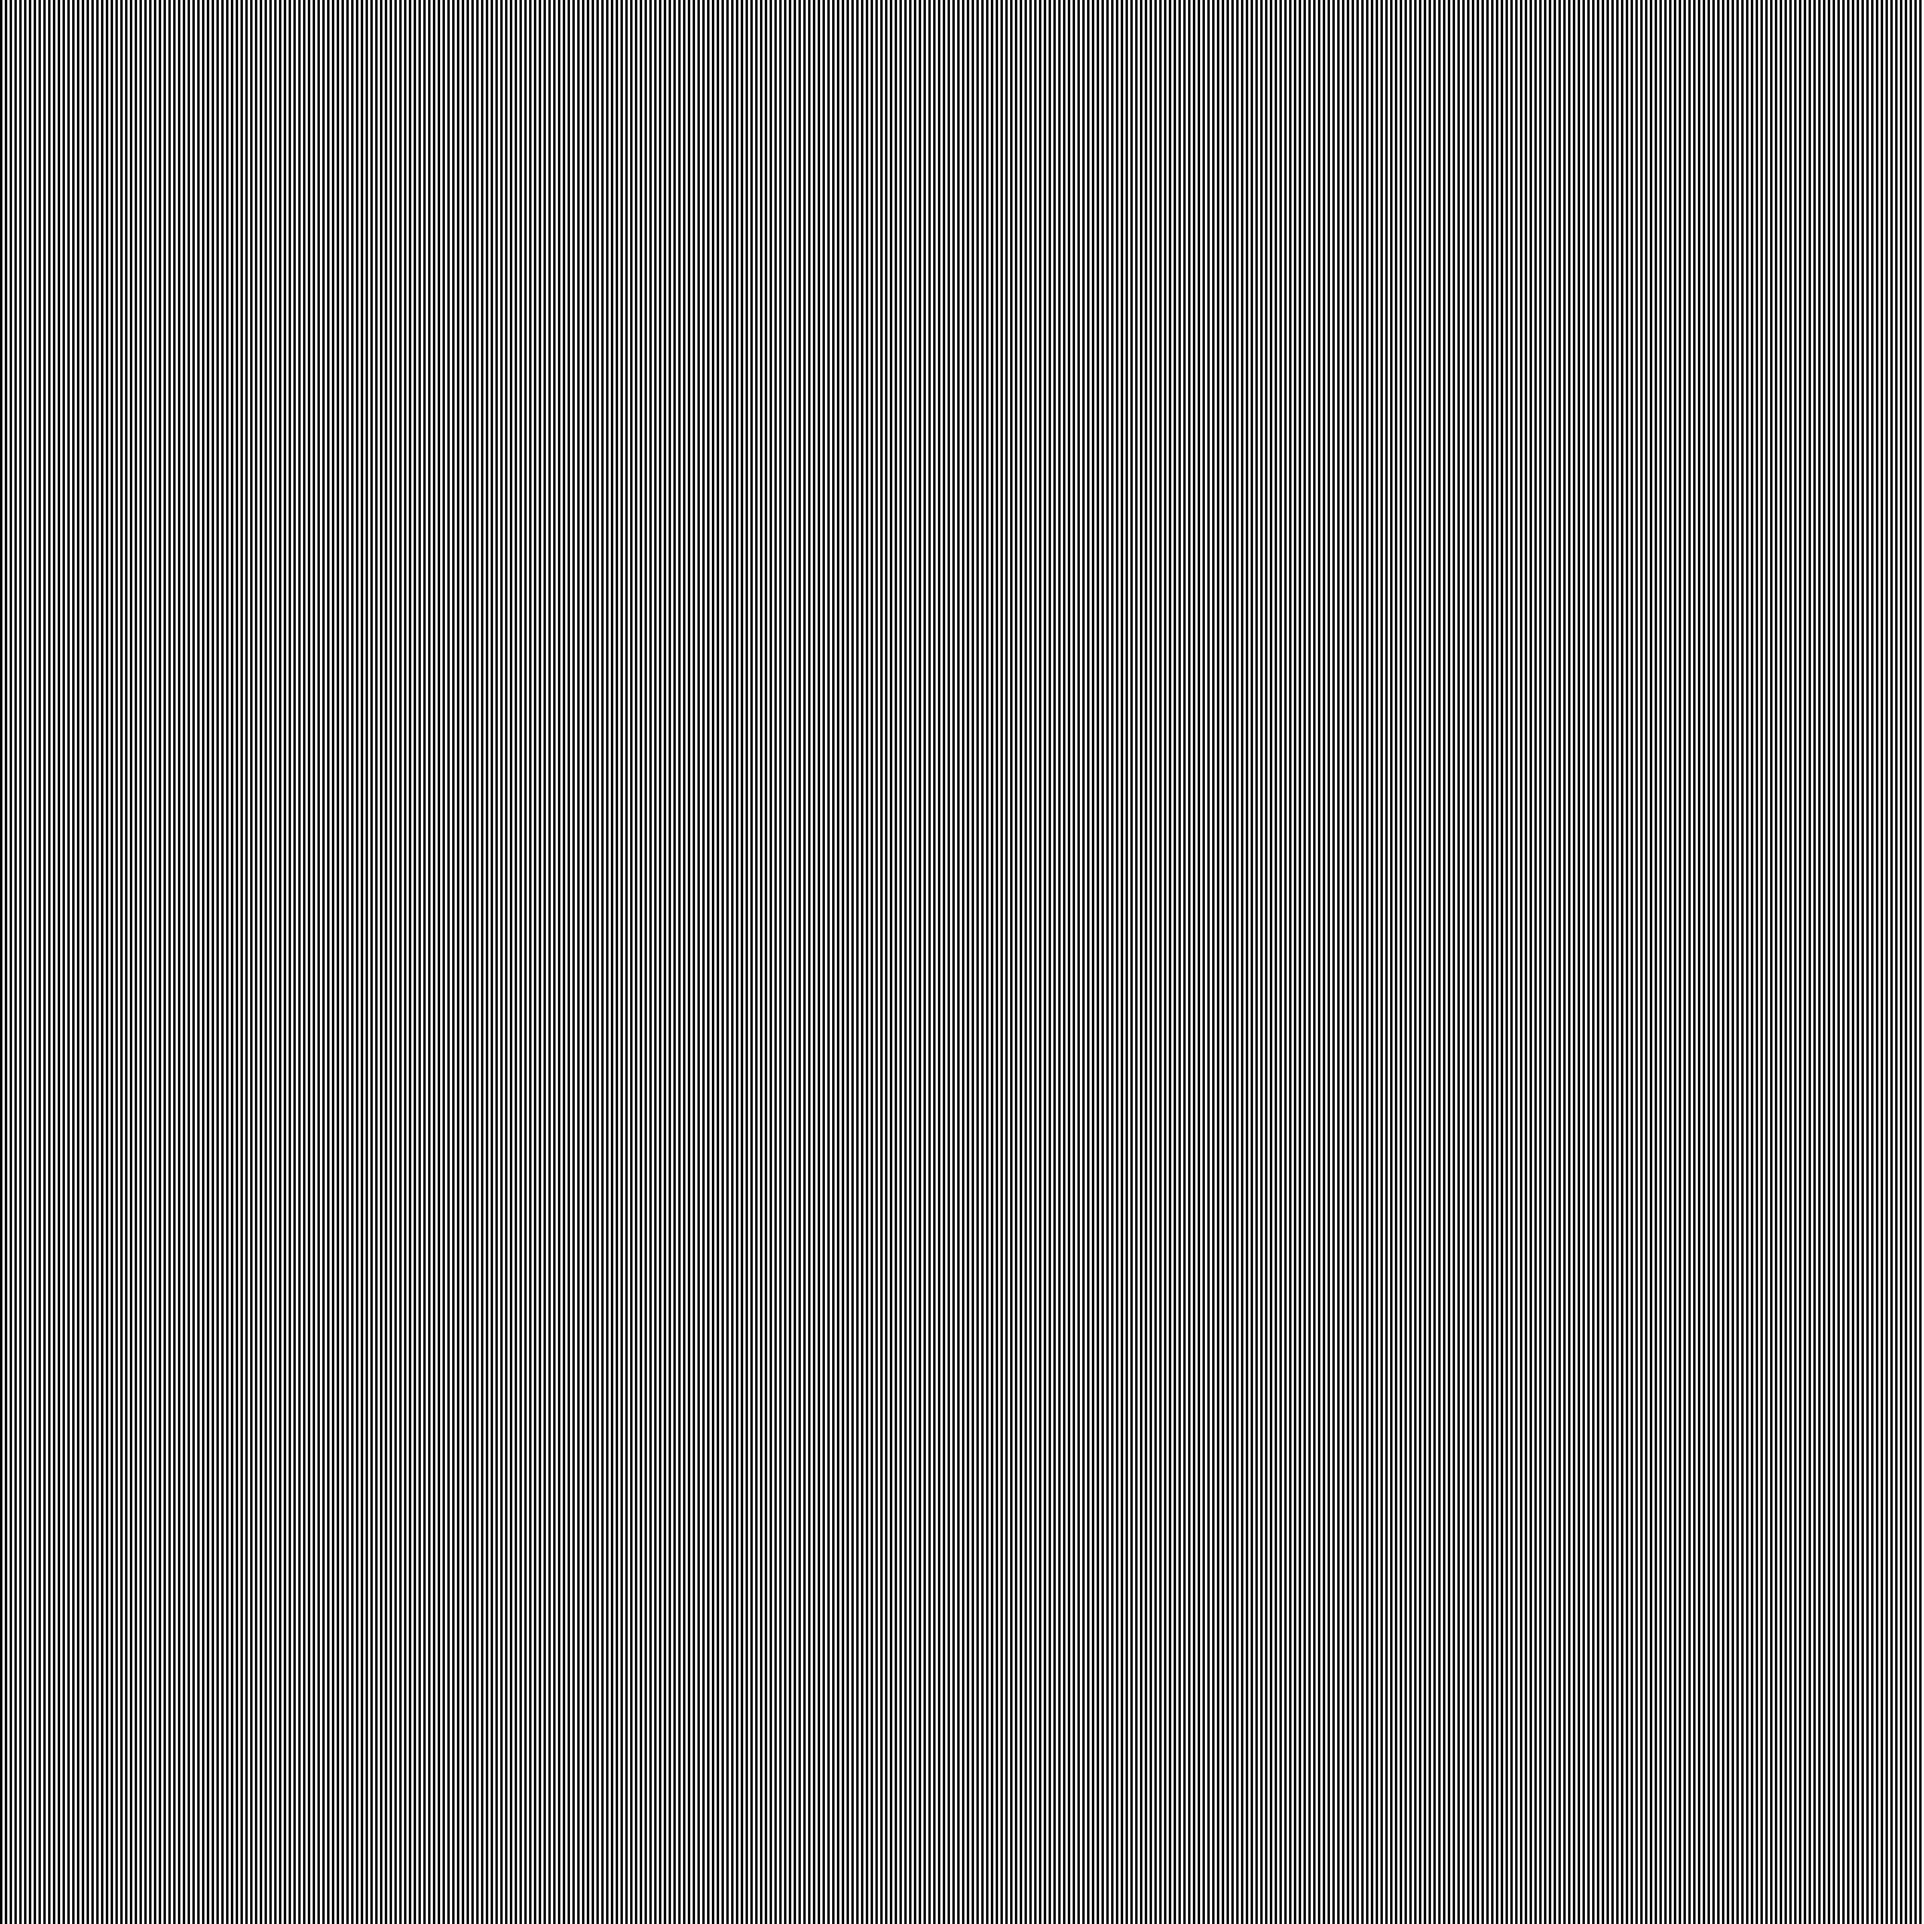
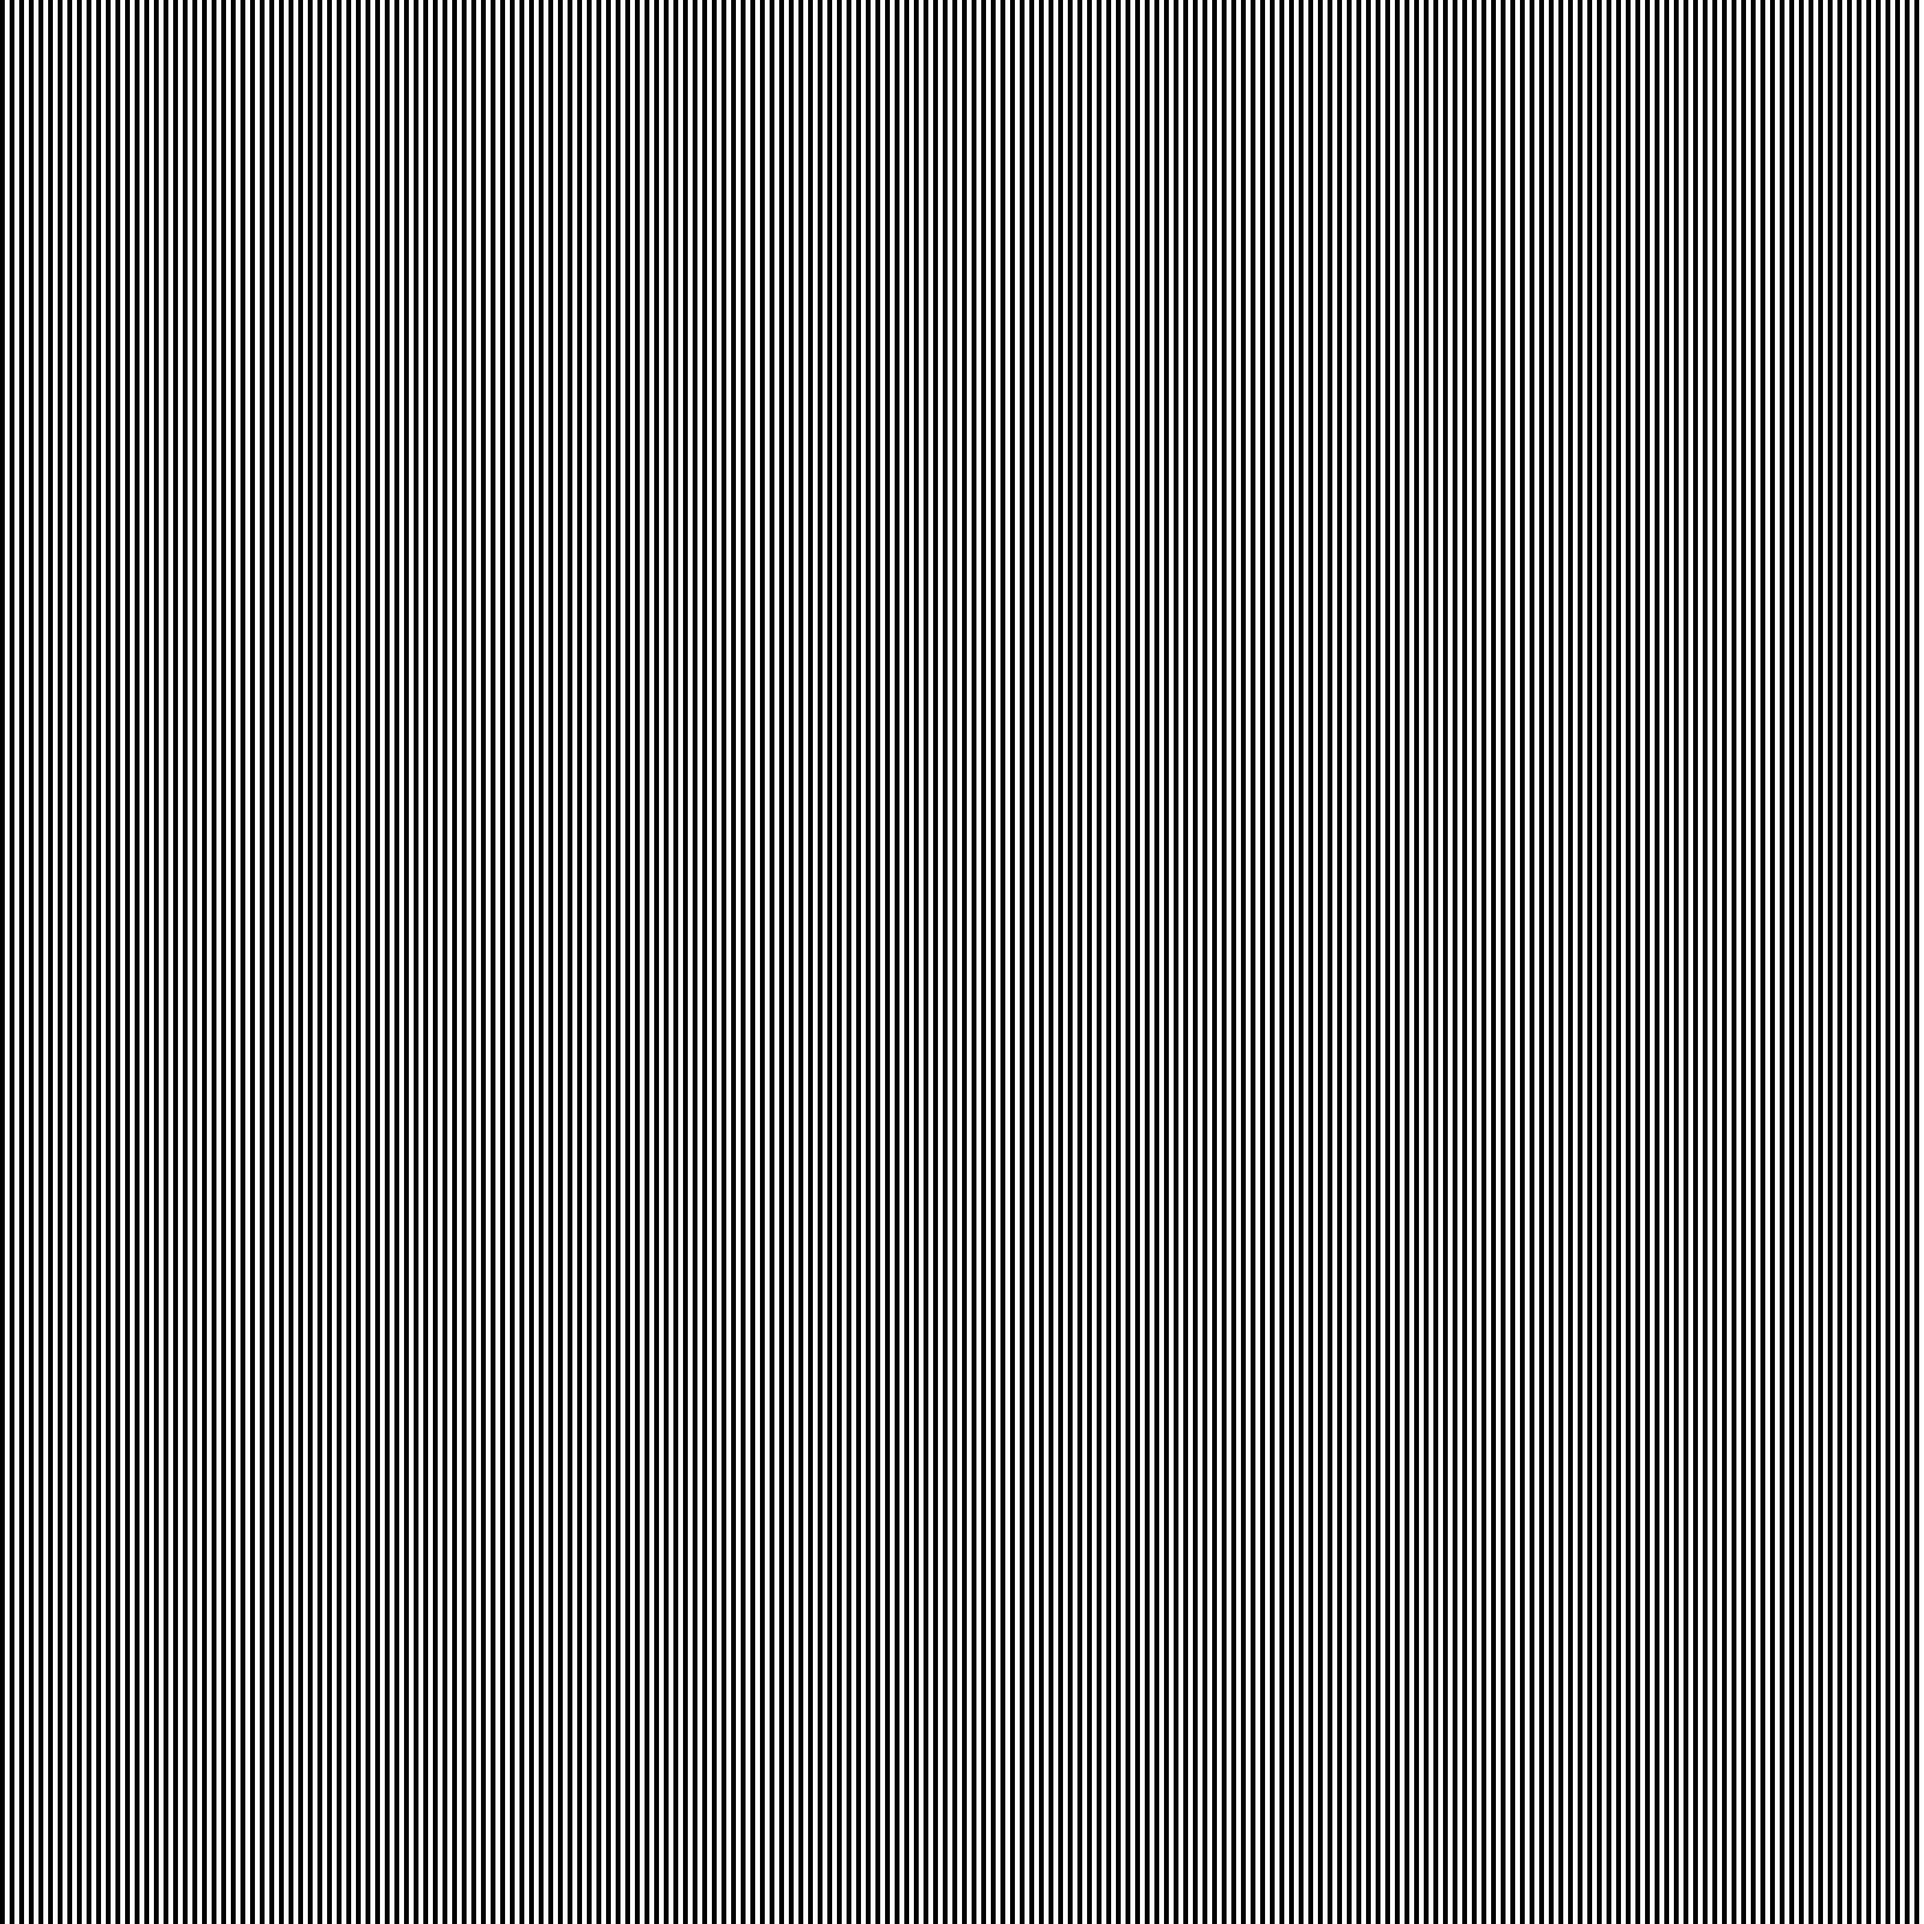
:leaves:

diff --git a/main.js b/main.js
@@ -65,14 +65,14 @@ function initCanvasTex(){
 
     var urls = [];
     for (var i = 0; i < 6; i++) {
-        var url = "tex/grey.jpg";
+        var url = "tex/gradient.jpg";
         urls.push(url);
     }
     texCube = THREE.ImageUtils.loadTextureCube(urls, THREE.CubeRefractionMapping, function() {});
 
     var urls2 = [];
     for (var i = 0; i < 6; i++) {
-        var url = "tex/stripe7.jpg";
+        var url = "tex/gradient-5.jpg";
         urls2.push(url);
     }
     texCube2 = THREE.ImageUtils.loadTextureCube(urls2, THREE.CubeRefractionMapping, function() {});
@@ -208,22 +208,22 @@ function initFrameDifferencing(){
 
 	// sphereGeometry = new THREE.SphereGeometry(100,100,100);
 	    dazzleMaterial = new THREE.MeshBasicMaterial({color: 0xffffff, envMap: texCube, side: THREE.DoubleSide});
-	    dazzleMaterial2 = new THREE.MeshBasicMaterial({color: 0xffffff, envMap: texCube2, side: THREE.DoubleSide});
+	    dazzleMaterial2 = new THREE.MeshBasicMaterial({color: 0xffffff, envMap: texCube, side: THREE.DoubleSide});
 
-	// sphereGeometry = new THREE.CircleGeometry(100,100,100);
+	sphereGeometry = new THREE.CircleGeometry(100,100,100);
     loader = new THREE.BinaryLoader(true);
- //    for(var j = 0; j<2; j++){
- //    for(var i = 0; i < 25; i++){
-		loader.load("shards/gavel.js", function(geometry) {
+  //   // for(var j = 0; j<25; j++){
+    // for(var i = 0; i < 25; i++){
+		loader.load("shards/19.js", function(geometry) {
 	        createShard(geometry, dazzleMaterial);
 	    });
- //    }
- //    for(var i = 25; i < 50; i++){
-	// 	loader.load("shards/"+i+".js", function(geometry) {
-	//         createShard(geometry, dazzleMaterial2);
-	//     });
- //    }
- //    }
+    // }
+    // for(var i = 25; i < 50; i++){
+		// loader.load("shards/"+i+".js", function(geometry) {
+	 //        createShard(geometry, dazzleMaterial2);
+	 //    });
+    // }
+    // }
 
  //    for (var i = 0; i < 10; i++) {
 	// 	var sphere = new THREE.Mesh(sphereGeometry, dazzleMaterial);
@@ -238,9 +238,9 @@ function initFrameDifferencing(){
 }
 function createShard(geometry, material) {
     var shard = new THREE.Mesh(geometry, material);
-    var scale = 20.0;
-    // shard.position.set(0,0,100);
+    var scale = 1000.0;
     shard.position.set(0,0,100);
+    // shard.position.set(Math.random()*w - w/2, Math.random()*h - h/2, 100);
     shard.scale.set(scale, scale, scale);
     scene.add(shard);
     shards.push(shard);
@@ -263,7 +263,7 @@ function bezierX(x1, y1, x2, y2, hue){
     ctx.lineWidth = lineWidth;
     
     // line color
-    ctx.strokeStyle = "black";
+    ctx.strokeStyle = "#0000FF";
     ctx.stroke();   
 }
 function bezierY(x1, y1, x2, y2, hue){
@@ -275,39 +275,50 @@ function bezierY(x1, y1, x2, y2, hue){
     ctx.lineWidth = lineWidth;
     
     // line color
-    ctx.strokeStyle = "black";
+    ctx.strokeStyle = "#0000FF";
     ctx.stroke();  
 }
 var time = 0.5;
 function many(){
     // time+=0.01;
-    ctx.fillStyle = "#404040";
-    ctx.fillRect(0, 0, canvas.width, canvas.height);
+    // ctx.fillStyle = "#FFFFFF";
+    // ctx.fillRect(0, 0, canvas.width, canvas.height);
+    var my_gradient=ctx.createLinearGradient(0,0,0,canvas.height);
+	// my_gradient.addColorStop(0,"#f6f1b2");
+	// my_gradient.addColorStop(0.31,"#cae3cc");
+	// my_gradient.addColorStop(0.6,"#98d8e3");
+	// my_gradient.addColorStop(0.8,"#6ab6cb");
+	// my_gradient.addColorStop(1,"#4599b1");
+	my_gradient.addColorStop(0.25, "white");
+	my_gradient.addColorStop(0.75,"black");
+	ctx.fillStyle=my_gradient;
+	ctx.fillRect(0,0,canvas.width, canvas.height);
+
     var wy = canvas.width;
     var hy = 50;
     var wx = 50;
     var hx = canvas.height;
     var amp = 75;
-    var distX = 100;
-    var distY = 100;
+    var distX = 20;
+    var distY = 20;
     var alpha = 1.0;
-    lineWidth = 50;
+    lineWidth = 10;
 
-   for(var j = -canvas.height; j < canvas.height*2; j+=distY){
-    	var r = Math.floor(map(0.5+0.5*Math.cos(time*4/3), 1, 0, 255));
-    	var g = Math.floor(map(j, h, 0, 255));
-    	var b = Math.floor(map(0.5+0.5*Math.sin(time/2), 1, 0, 255));
-    	var color = "rgba("+r+","+g+", "+b+", "+alpha+")";
-        bezierY(0,j, canvas.width, j,  color /*hslaColor(j/5, 100, 50, alpha)*/);  
-    }
-    for(var i = -canvas.width; i < canvas.width*2; i+=distX){
-    	var r = Math.floor(map(i, w, 0, 255));
-    	var g = Math.floor(map(0.5+0.5*Math.sin(time), 1, 0, 255));
-    	var b = Math.floor(map(0.5+0.5*Math.cos(time*3/2), 1, 0, 255));
-    	var color = "rgba("+r+","+g+", "+b+", "+alpha+")";
-        // bezierX(i, 0, i, canvas.height, color /*hslaColor(i/5, 100, 50, alpha)*/);  
+   // for(var j = -canvas.height; j < canvas.height*2; j+=distY){
+   //  	var r = Math.floor(map(0.5+0.5*Math.cos(time*4/3), 1, 0, 255));
+   //  	var g = Math.floor(map(j, h, 0, 255));
+   //  	var b = Math.floor(map(0.5+0.5*Math.sin(time/2), 1, 0, 255));
+   //  	var color = "rgba("+r+","+g+", "+b+", "+alpha+")";
+   //      // bezierY(0,j, canvas.width, j,  color /*hslaColor(j/5, 100, 50, alpha)*/);  
+   //  }
+   //  for(var i = -canvas.width; i < canvas.width*2; i+=distX){
+   //  	var r = Math.floor(map(i, w, 0, 255));
+   //  	var g = Math.floor(map(0.5+0.5*Math.sin(time), 1, 0, 255));
+   //  	var b = Math.floor(map(0.5+0.5*Math.cos(time*3/2), 1, 0, 255));
+   //  	var color = "rgba("+r+","+g+", "+b+", "+alpha+")";
+   //      bezierX(i, 0, i, canvas.height, color /*hslaColor(i/5, 100, 50, alpha)*/);  
 
-    }
+   //  }
     // ctx.rotate(Math.PI/1000);
 
 
@@ -326,7 +337,7 @@ function draw(){
     camTex.needsUpdate = true;
     globalUniforms.time.value = time;
     for(var i = 0; i < shards.length; i++){
-    	shards[i].rotation.z = Math.PI/6;
+    	shards[i].rotation.x = Date.now()*0.0001;
     }
     // expand(1.01);
     // materialDiff.uniforms.texture.value = rtFB;

diff --git a/index.html b/index.html
@@ -1,12 +1,12 @@
 <html>
 <head>
-	<title>frame differencing</title>
-	<style>
-		body{
-			margin: 0;
-      cursor:none;
-		}
-	</style>
+  <title>frame differencing</title>
+  <style>
+    body{
+      margin: 0;
+      /*cursor:none;*/
+    }
+  </style>
 </head>
 <body>
 <script id="fs" type="x-fragment/x-shader">
